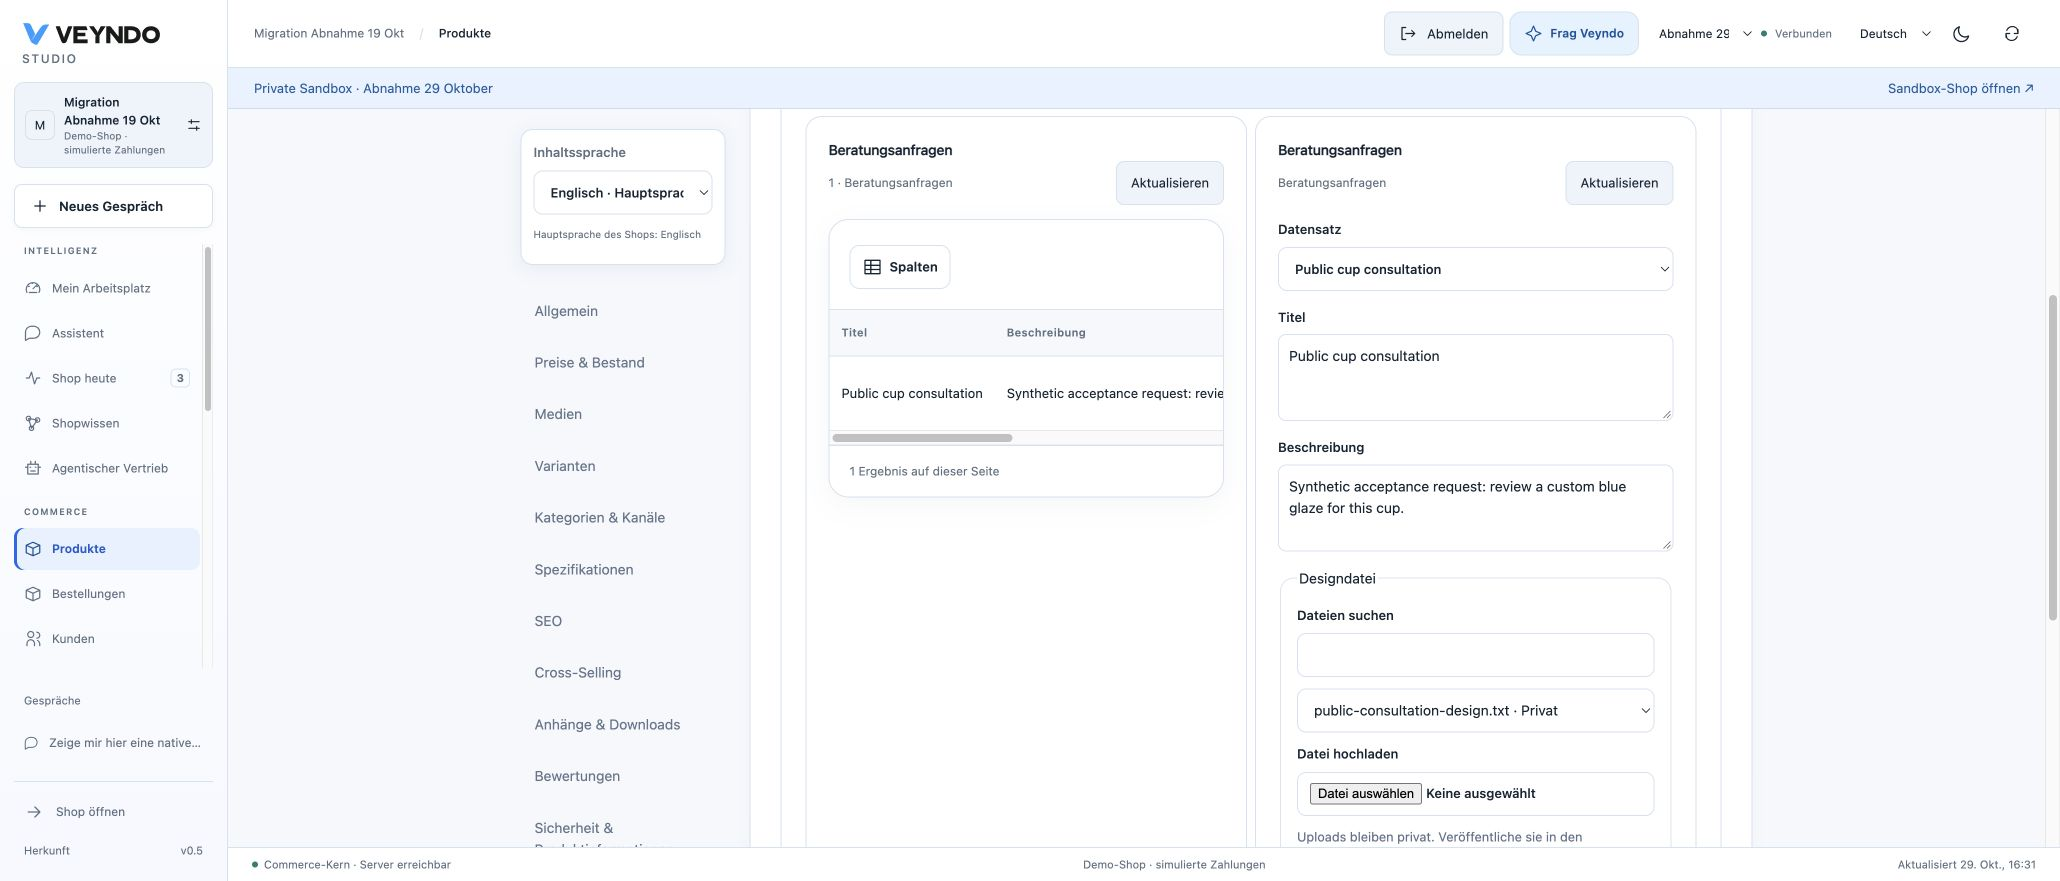
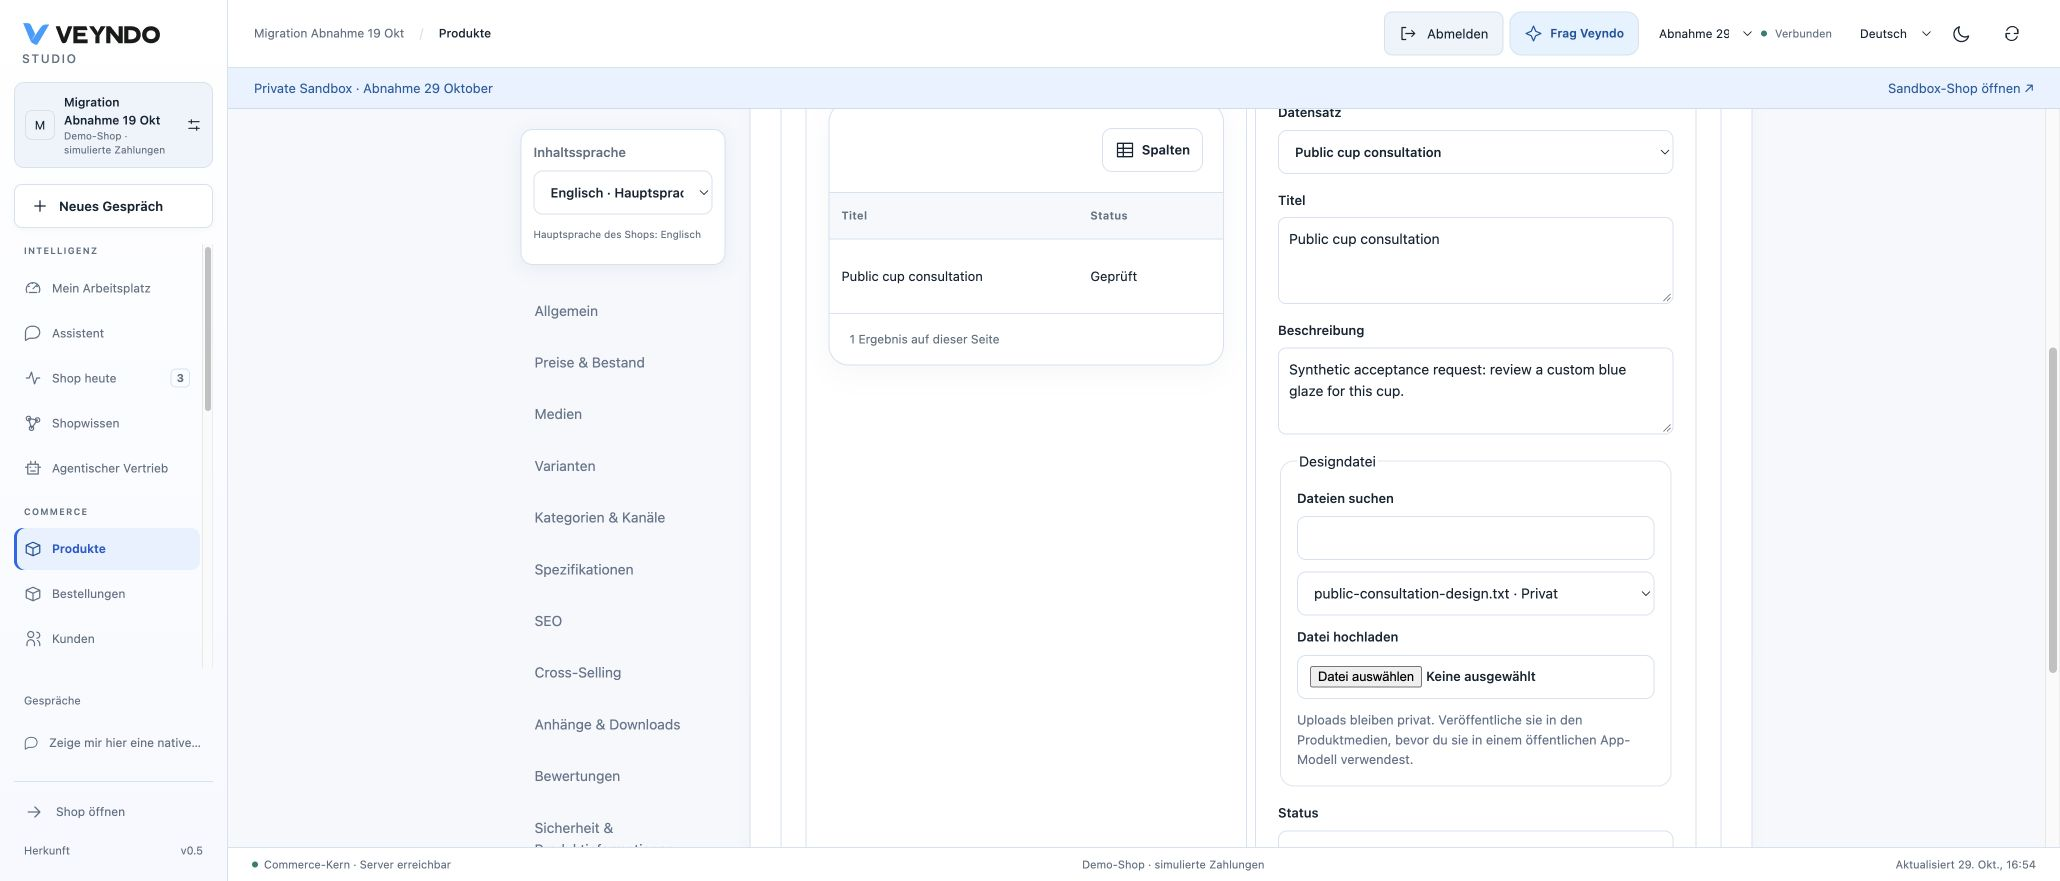
docs: record final public app controls and release acceptance

diff --git a/docs/evidence/platform-followups-hosted-2026-10-29.md b/docs/evidence/platform-followups-hosted-2026-10-29.md
@@ -198,7 +198,10 @@ Northflank workflow then started at **16:16:48 CET** for that exact commit.
 The merged Git tree is identical to the completely tested `e97f419a` tree.
 Image `best-day-1904` started Core at **16:27:11 CET**. The ordinary release
 completed at **16:28:21 CET**, after snapshot `26-10-29-152549-backup`, a
-successful 12-second migration and the release health checks.
+successful 12-second migration and the release health checks. The resulting
+Core instance was observed 1/1 passing with zero restarts. The subsequent
+[complete main verification](https://github.com/sthamann/veyndo/actions/runs/40899935138)
+also passed all native partitions, combined coverage and final admission.
 
 ### Installation, private upload and retained record
 
@@ -224,6 +227,28 @@ This public check covers generated package admission, installation and actual
 record use. Required installation settings, selected package publication and
 restoration are covered by the separately linked complete local app journey;
 this public sandbox check does not claim that live settings were configured.
+
+### Shared embedded-table controls
+
+This actual app acceptance exposed a layout defect in narrow native app tables:
+without a search control, the column menu began at the left edge and its
+right-aligned panel was clipped. [PR #234](https://github.com/sthamann/veyndo/pull/234)
+aligns the shared tools at the inline end of their existing flex toolbar. It
+changes one shared CSS property, with no API, permission or storage changes.
+The complete frontend build and [required scoped CI](https://github.com/sthamann/veyndo/actions/runs/40903477771)
+passed; incremental independent review found no issue. The normal merge is
+`69fd45683af1e04a0c608aaedbe4924477e3cad6`.
+
+The ordinary release ran for that exact source with image `united-toys-4065`:
+snapshot `26-10-29-155202-backup`, successful 11-second migration, Core start
+**16:53:22 CET** and successful release **16:54:31 CET**. The new instance was
+observed 1/1 passing with zero restarts. Reloading the public Studio retained the
+same product, installed app, request, private file and reviewed status. The
+column panel's labels are now visible inside the narrow card. Hiding description
+and file columns through that actual panel left the request title and reviewed
+status in the compact native grid; this changes the view, not the stored record.
+
+![Readable column controls within the actual installed app table](../assets/platform-followups-20261029/guided-app-columns.png)
 
 ## Apple callback configuration
 

diff --git a/docs/status.md b/docs/status.md
@@ -65,14 +65,18 @@ journeys below retain their accepted versions.
 
 ## What is online now
 
-The latest observed functional Core is **`d65bc050` (PR #232)**, image
-`best-day-1904`, started on **29 October at 16:27:11 CET**. Its ordinary release
-completed at **16:28:21 CET** after a fresh snapshot, successful migration and
-health checks. The original public model request creates and saves the native
-consultation package. The package now also passes installation review under the
-restricted database connections, installs in the selected private sandbox and
-retains an actual consultation request, private file and updated status after a
-full browser reload.
+The latest observed Core is **`69fd4568` (PR #234)**, image
+`united-toys-4065`, started on **29 October at 16:53:22 CET**. Its ordinary
+snapshot-backed release completed at **16:54:31 CET**, with a successful migration
+and one passing instance with zero restarts. The final correction makes the
+column controls readable inside narrow installed-app tables.
+
+The preceding functional release **`d65bc050` (PR #232)** also passed complete
+main CI. The original public model request creates and saves the native
+consultation package; installation review under the restricted database
+connections passes. The installed private product view retains an actual
+consultation request, private file and updated status after a full browser
+reload, including the subsequent UI rollout.
 
 The preceding same-day releases passed public native working-view/CSV intake,
 saved customer scenarios, designer drag/drop, URL-based design proposals, private
